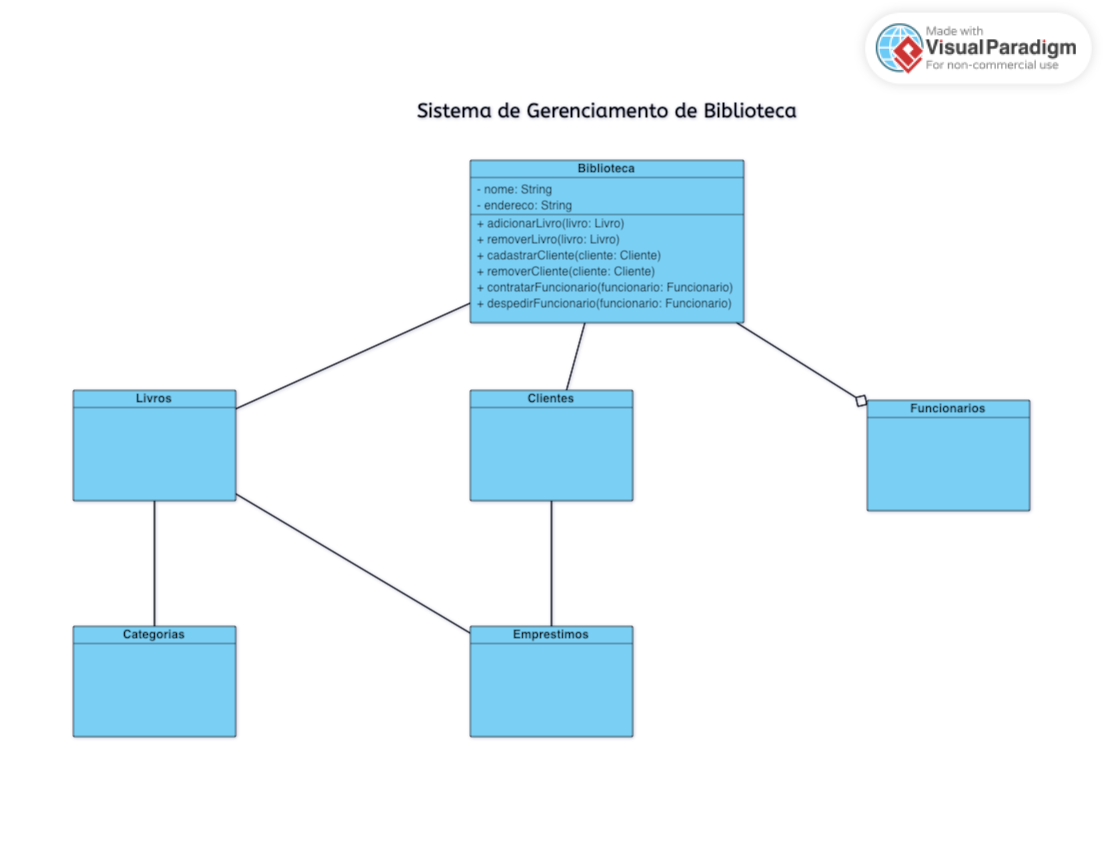
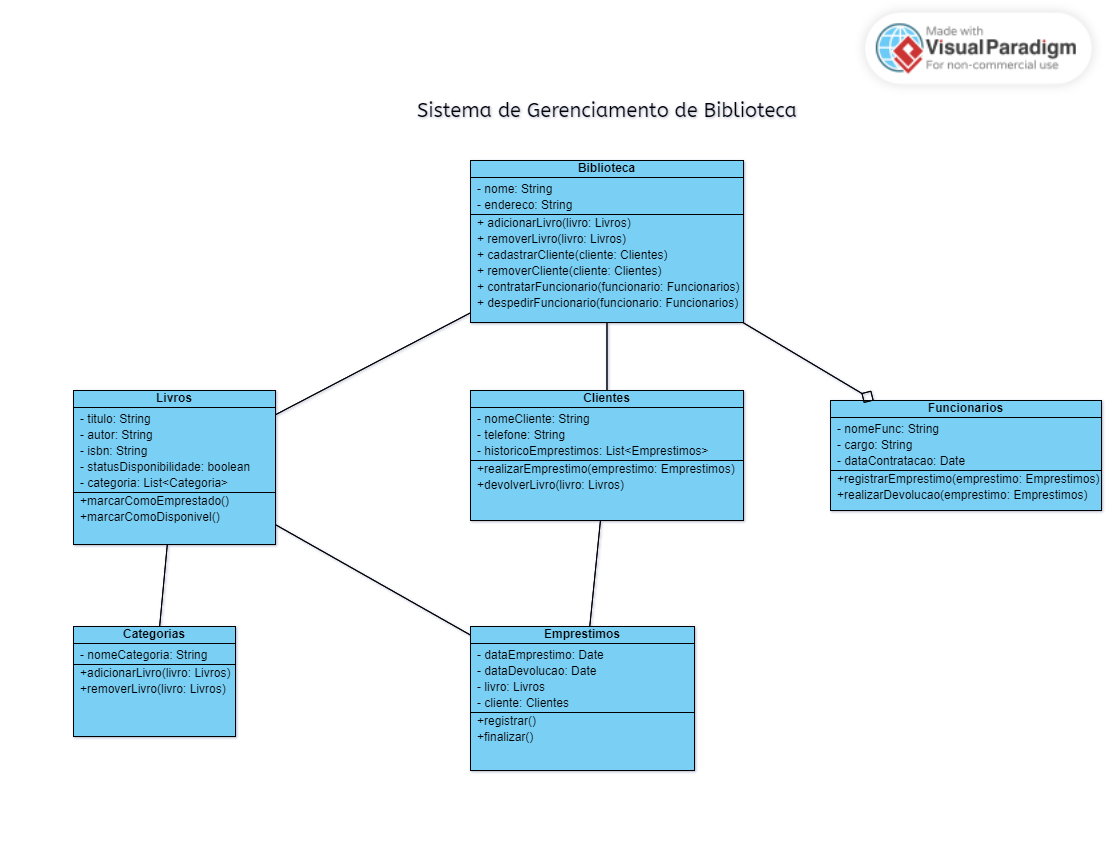
chore: pequenas alterações no sisbiblioteca

diff --git a/IFPA/AnaliseEProjetoDeSistemas/Exercicios/LibraryManagerSystem/Biblioteca/src/sisbiblioteca/App.java b/IFPA/AnaliseEProjetoDeSistemas/Exercicios/LibraryManagerSystem/Biblioteca/src/sisbiblioteca/App.java
@@ -8,6 +8,7 @@ import java.util.Scanner;
 public class App {
     public static void main(String[] args) throws Exception {
         
+        // Cadastra um livro, uma biblioteca, um cliente, um funcionário, uma categoria, um empréstimo e uma devolução
         Scanner scanner = new Scanner(System.in);
         System.out.println("Digite o nome do livro: ");
         String nomeLivro = scanner.nextLine();
@@ -26,17 +27,21 @@ public class App {
         System.out.println("Digite o nome do funcionário: ");
         String nomeFuncionario = scanner.nextLine();
         System.out.println("Digite o cargo do funcionário: ");
+        String cargoFuncionario = scanner.nextLine();
         System.out.println("Digite a data de contratação do funcionário (dd/MM/yyyy): ");
         String dataContratacaoFuncionarioStr = scanner.nextLine();
         SimpleDateFormat sdf = new SimpleDateFormat("dd/MM/yyyy");
         Date dataContratacaoFuncionario = sdf.parse(dataContratacaoFuncionarioStr);
-
-
-
+        System.out.println("Digite a data de empréstimo (dd/MM/yyyy): ");
+        String dataEmprestimoStr = scanner.nextLine();
+        Date dataEmprestimo = sdf.parse(dataEmprestimoStr);
+        System.out.println("Digite a data de devolução (dd/MM/yyyy): ");
+        String dataDevolucaoStr = scanner.nextLine();
+        Date dataDevolucao = sdf.parse(dataDevolucaoStr);
 
         List<Categorias> categoria = new Categorias(categoriaLivro);
         Biblioteca biblioteca = new Biblioteca(nomeBiblioteca, enderecoBiblioteca);
-        Clientes cliente = new Clientes(nomeCliente);
+        Clientes cliente = new Clientes(nomeCliente, telefoneCliente);
         Funcionarios funcionario = new Funcionarios(nomeFuncionario, cargoFuncionario, dataContratacaoFuncionario);
         Livros livro = new Livros(nomeLivro, autorLivro, isbnLivro, true, categoria);
 

diff --git a/IFPA/AnaliseEProjetoDeSistemas/Exercicios/LibraryManagerSystem/Biblioteca/src/sisbiblioteca/Categorias.java b/IFPA/AnaliseEProjetoDeSistemas/Exercicios/LibraryManagerSystem/Biblioteca/src/sisbiblioteca/Categorias.java
@@ -1,6 +1,8 @@
 package sisbiblioteca;
 
-public class Categorias {
+import java.util.List;
+
+public class Categorias implements List<Categorias> {
     private String nomeCategoria;
 
     public Categorias(String nomeCategoria) {
